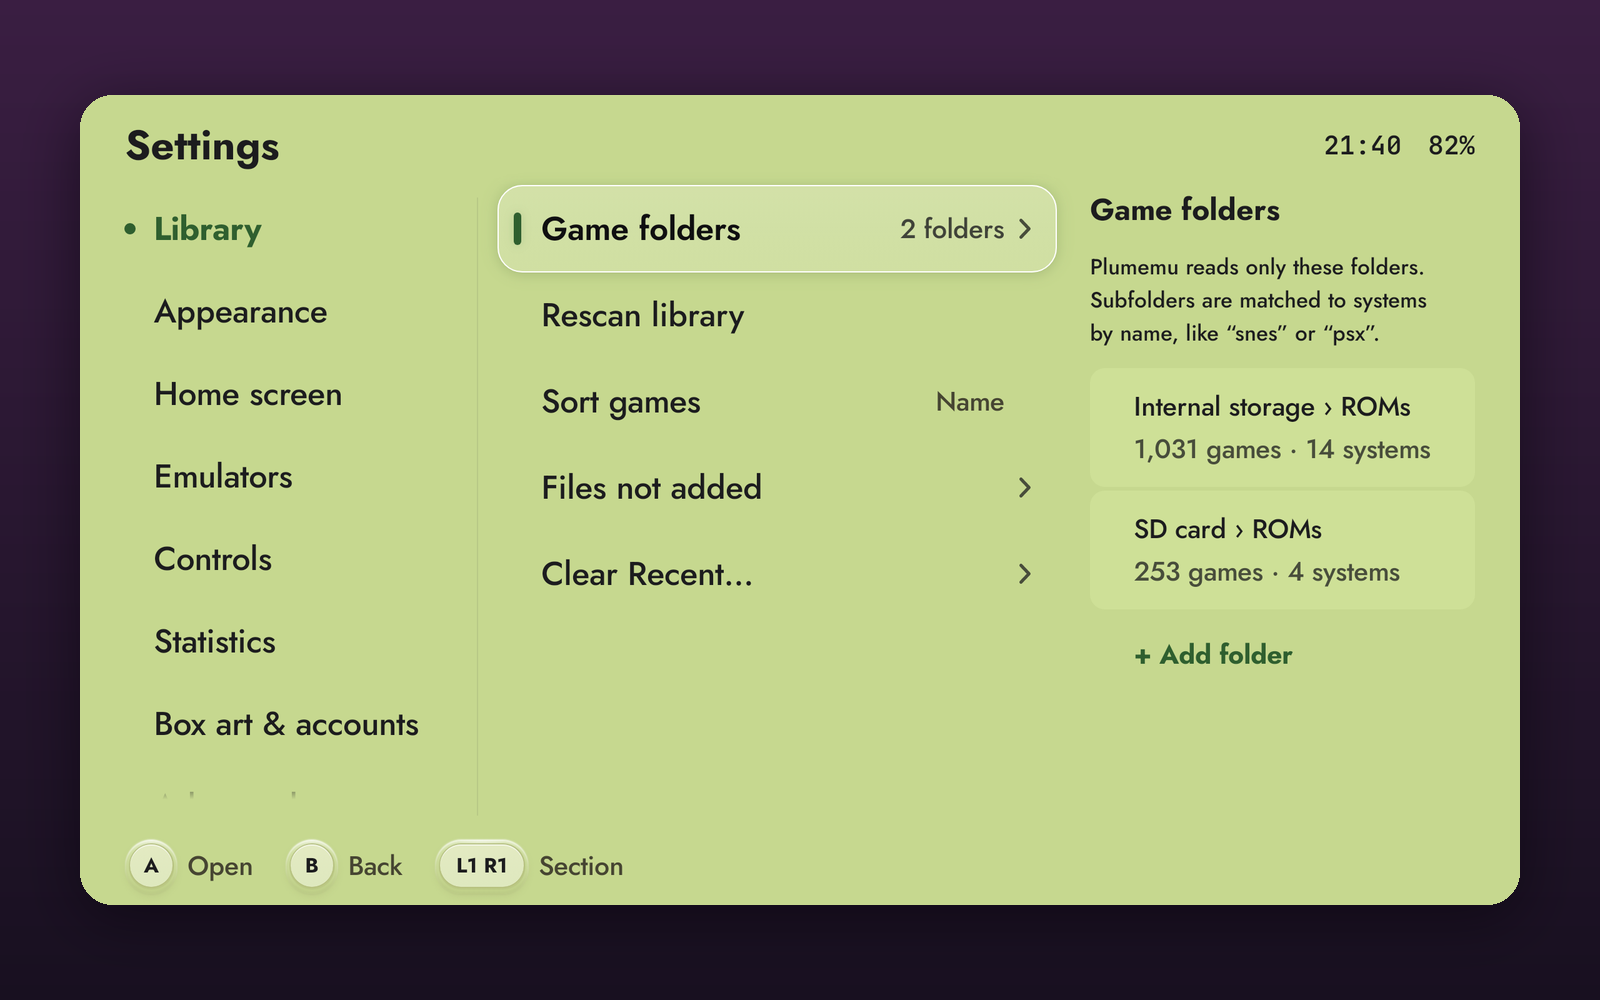
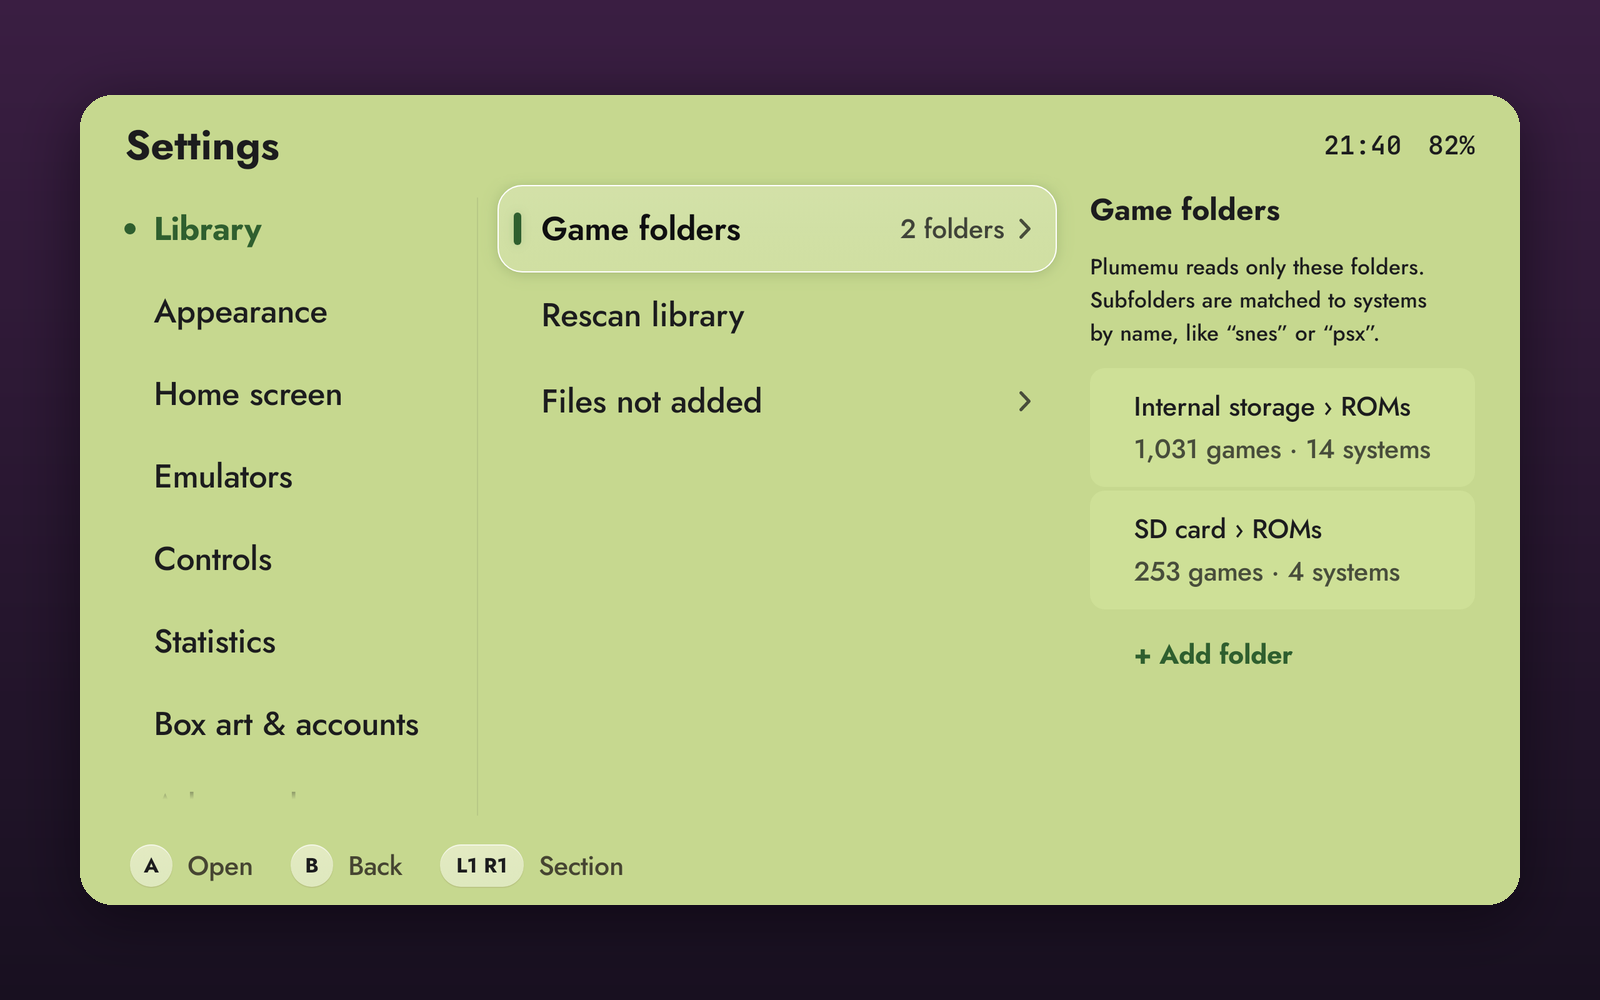
Docs and images for 0.1.6: Usage access in PRIVACY, removed settings gone from README and GUIDE, screenshots of 0.1.6

diff --git a/README.md b/README.md
@@ -15,7 +15,7 @@ handhelds.</p>
 </p>
 
 <p align="center">
-  <b>0.1.6</b> · Android 6.0 or later · tested on the AYN Thor, the Retroid Pocket 6, the Retroid Pocket Nova and the Retroid Pocket Classic ·
+  <b>0.1.6</b> · Android 6.0 or later · tested on the AYN Thor (earlier versions also on the Retroid Pocket 6, Nova and Classic) ·
   <a href="../../releases">Download</a> · <a href="https://plumemu.stevensdesk.com">Website</a>
 </p>
 
@@ -108,7 +108,7 @@ game file.
   of your library, with the reason, and Unidentified games suggests the closest official titles. Folders the last scan could not read are listed
   there too, with Scan again and a way to skip each one.
 - **Recent that you control.** Take one game out of Recent from its menu (Undo brings it back for four seconds), or clear it
-  (Settings › Library › Clear Recent…). Recent keeps the last 50 games. Your play time and statistics stay.
+  (Settings › Advanced › Reset… › Clear Recent…). Recent keeps the last 50 games. Your play time and statistics stay.
 - **Skip a sub-folder.** Settings › Library › Game folders can leave out a sub-folder (a folder of
   demos, say) so its games never show up. Nothing on disk is touched.
 
@@ -142,15 +142,13 @@ game file.
   and on a handheld with an OLED screen setup offers true black. Or make your own background, text and accent colors with
   sliders that show the whole screen in the new color as you drag.
 - **Lists or covers.** Show any system, Recent or Favorites as a list or as a grid of covers in
-  three sizes (L1 / R1, or the Size hint; Settings › Home screen › Grid size
-  while button hints are off). Covers sit in a glass frame with rounded corners; the focused cover or app lifts a little inside its
+  three sizes (L1 / R1, or the Size hint). Covers sit in a glass frame with rounded corners; the focused cover or app lifts a little inside its
   own space, with a thin light rim, so nothing overlaps. Apps can be a grid of larger icons too.
 - **One sliding view.** Systems, games and details move as one strip, laid out for 16:9 and 4:3
   screens. On 4:3 and narrow screens the game's details peek in beside the list. Beside the games,
-  a narrow strip shows game counts, a code per system or a letter rail you can tap or drag
-  (Settings › Home screen › Left strip).
+  a narrow strip shows a short code for each system, in your order, that you can tap.
 - **About each system.** Above a system's games, a short band with its badge, the years it was
-  made and a few lines about it. Settings › Home screen › System info turns it off.
+  made and a few lines about it.  It follows the screens your handheld has.
 - **Text you can read.** Text size starts at Large. Every screen uses Jost in one weight, and the clock,
   battery and years use a monospaced face so their figures line up.
   Lists, menus and panels run under the top and bottom bars and fade there.
@@ -169,7 +167,7 @@ game file.
 - **Back up and restore.** Save your settings, or everything (library, box art, play time), into
   one file, checked after writing, and put it back on this device or a new one.
 - **Updates from inside the app** (official builds). Once a day on Wi-Fi Plumemu looks for a new
-  version; the top bar then shows "Update" and the version, and START or Settings › About › Updates
+  version; the top bar then shows "Update" and the version, and START or Settings › About › Version
   installs it. After an update Plumemu opens itself again, or shows a notification to tap if Android keeps
   it from coming to the front, and a card tells you what is new, once.
 - **Anonymous usage statistics and crash reports, only if you want them** (official builds). They
@@ -198,7 +196,7 @@ game file.
     <td align="center">In three sizes, light or dark</td>
   </tr>
   <tr>
-    <td colspan="2"><img src="media/apps-grid.png" alt="Apps in Cold grey as a grid of larger icons with one-line names, Gallery lifted inside a thin light rim; the left strip counts each system"></td>
+    <td colspan="2"><img src="media/apps-grid.png" alt="Apps in Cold grey as a grid of larger icons with one-line names, Gallery lifted inside a thin light rim; the left strip shows a code for each system"></td>
   </tr>
   <tr>
     <td colspan="2" align="center">Apps as a grid of larger icons</td>
@@ -217,7 +215,7 @@ game file.
   </tr>
   <tr>
     <td align="center">4:3 screens, like the Retroid Pocket Nova</td>
-    <td align="center">Counts, system codes or a letter rail at the edge</td>
+    <td align="center">A code for each system at the edge</td>
   </tr>
   <tr>
     <td width="50%"><img src="media/colors.png" alt="Settings › Appearance › Colors in Ultramarine: a short help text and small previews of the first color sets, Ultramarine selected"></td>
@@ -228,7 +226,7 @@ game file.
     <td align="center">A, B, X and Y in their classic colors</td>
   </tr>
   <tr>
-    <td width="50%"><img src="media/settings.png" alt="Settings › Library in Pea green, a green screen: Game folders, Rescan library, Sort games, Files not added and Clear Recent…; the Game folders panel on the right lists Internal storage and SD card with their game counts"></td>
+    <td width="50%"><img src="media/settings.png" alt="Settings › Library in Pea green, a green screen: Game folders, Rescan library and Files not added; the Game folders panel on the right lists Internal storage and SD card with their game counts"></td>
     <td width="50%"><img src="media/update.png" alt="Settings › About in Daylight with the update panel: Plumemu 0.1.3 → 0.1.4, a short list of release notes and an Update button (an example screen)"></td>
   </tr>
   <tr>
@@ -292,9 +290,9 @@ optional: on the Thor it shows details, a clock and your battery, and nothing ne
 
 **Updating.** Install the new version the same way, over the old one; your library and settings
 stay. The official build also finds new versions itself: START Settings shows a dot, and
-Settings › About › Updates downloads it, checks that it really is Plumemu, and installs it. On
+Settings › About › Version downloads it, checks that it really is Plumemu, and installs it. On
 Android 8 and later, Android asks once to let Plumemu install apps. Nothing installs while you
-play. Settings › About › Updates has a switch that turns the daily check off.
+play. Settings › About › Version has a switch that turns the daily check off.
 
 ## Controls
 
@@ -337,12 +335,12 @@ official build can send, and to whom:
 |---|---|---|---|
 | Usage statistics and crash reports: device model, Android and Plumemu versions, a random install number, which screens and settings are used, play time by system. For a game Plumemu could not name, once: its system, size, checksum and any code read from the game. Never game titles, file names or search words. | The developer (`plumemu.stevensdesk.com`) | Only after you switch it on | Settings › About › Send usage statistics |
 | A problem report: what you wrote, an e-mail if you give one, the log unless you untick it | The developer | Only when you press Send | Do not press Send |
-| An update check: a request for one file, nothing about you | The developer (`plumemu-app.stevensdesk.com`) | Once a day on Wi-Fi, or when you press Check for updates | Settings › About › Updates |
+| An update check: a request for one file, nothing about you | The developer (`plumemu-app.stevensdesk.com`) | Once a day on Wi-Fi, or when you press Check for updates | Settings › About › Version |
 | Box art lookups: your ScreenScraper account, and each game's file name, size, checksum and title | [ScreenScraper](https://www.screenscraper.fr) | Only while you are signed in, on Wi-Fi | Settings › Box art & accounts › ScreenScraper: Sign out or Pause |
 | Box art ScreenScraper lacks: a Steam game's title, or a game's file name | Steam (Valve) and the libretro thumbnail server | Only while you are signed in to ScreenScraper, on Wi-Fi | The same |
 | Box art with no account: a game's name, in the picture's address | The libretro thumbnail server | Only if you choose the default source, on Wi-Fi | Settings › Box art & accounts › Box art: Plumemu's own covers |
 | Achievements: your RetroAchievements user name, your Web API key and the RetroAchievements number of a game, found from a hash of the game file that Plumemu computes on the handheld (no file leaves it). Badge pictures are plain downloads with no account data | [RetroAchievements](https://retroachievements.org) (`retroachievements.org`, badges from `media.retroachievements.org`) | Only while you are signed in: when a game's Info opens, after you play, and once a day on Wi-Fi | Settings › Box art & accounts › RetroAchievements: Sign out deletes your name, key and progress |
-| Platform data (the list of systems and emulators): a request for one file, nothing about you | The developer (`plumemu-app.stevensdesk.com`) | In the same daily update check | Settings › About › Updates |
+| Platform data (the list of systems and emulators): a request for one file, nothing about you | The developer (`plumemu-app.stevensdesk.com`) | In the same daily update check | Settings › About › Version |
 
 A build you make yourself from the source sends no statistics and checks no updates, and has no
 ScreenScraper or RetroAchievements account built in (see [Source](#source)). Your IP address reaches each server with

diff --git a/PRIVACY.md b/PRIVACY.md
@@ -46,7 +46,7 @@ to RetroAchievements.
 
 Once a day, on Wi-Fi or Ethernet that is not metered, when Plumemu comes to the front, it asks
 `plumemu-app.stevensdesk.com` whether there is a newer version. It also asks when you press
-Check for updates in Settings › About › Updates.
+Check for updates in Settings › About › Version.
 
 - **What is sent**: a plain HTTPS request for one file, `update/latest.json`. No identifier, no
   account, nothing about your library, your device or the version you have.
@@ -62,7 +62,7 @@ Check for updates in Settings › About › Updates.
   second yes), from the same server.
 - **What stays on the device**: when it last checked and what it found, in storage that is never
   backed up.
-- **Turn it off** with Settings › About › Updates. Check for updates then runs only
+- **Turn it off** with Settings › About › Version. Check for updates then runs only
   when you press it.
 
 ## Box art (only if you choose it)
@@ -116,14 +116,27 @@ contact RetroAchievements at all.
 
 ## Battery use
 
-On a handheld with two screens, while you play with the lower screen's clock and Show battery on,
+On a handheld with two screens, while you play with the lower screen's clock showing,
 Plumemu reads the battery level and current to say how long the charge lasts. For each play it
 keeps how long it measured, the charge at the start and the end, and the average draw, so it can
 tell a game's usual pace.
 
 - **Recorded on the device only, never sent** to Plumemu or anyone else.
 - It is read only while that clock shows and the screen is on.
-- **Turn it off** with Show battery off, or the lower screen set to black while you play.
+- **Turn it off** by setting the lower screen to Black while you play (Settings › Second screen).
+
+## Usage access (only if you allow it)
+
+After your first game of a minute or more, Plumemu offers once to count only the time a game is on
+screen. It needs Android's Usage access, which Plumemu never has unless you allow it. It is off by
+default, and it can be switched on or off in Settings › Statistics › Exact play time.
+
+- **What is read**: from Android, which app was in front during the play, to count only the time
+  your game or app was on screen. Nothing else about other apps is kept.
+- **Recorded on the device only, never sent** to Plumemu or anyone else. Only the play's length is
+  stored.
+- **Turn it off** with Exact play time off, or take the access away in Android's Usage access
+  screen.
 
 ## Backups
 
@@ -143,6 +156,7 @@ sends a backup anywhere; where the file goes is up to you.
   kept as games.
 - **When and how long you play**, to show play time under Settings › Statistics.
 - **The battery**, while you play on two screens, as above.
+- **Which app is in front**, only if you allow Usage access, as above.
 
 All of it stays on the device, in Plumemu's own storage, and is removed when Plumemu is
 uninstalled.

diff --git a/GUIDE.md b/GUIDE.md
@@ -156,9 +156,9 @@ none. Settings › Box art & accounts › RetroAchievements › Sign out removes
 ## Lists and keeping things tidy
 
 - **Recent, Favorites and Apps** sit at the top of the system column. Y adds or removes a favorite.
-- **Recent** keeps 10, 20 or 50 games (Settings › Library › Recent size; 20 to begin with). In a
+- **Recent** keeps the last 50 games. In a
   game's menu, "Remove from Recent" takes one out (Undo brings it back for four seconds);
-  Settings › Library › Clear Recent… empties it.
+  Settings › Advanced › Reset… › Clear Recent… empties it.
   Play time and statistics stay either way.
 - **Search**: X.
 - **Hide a game**: game menu › Hide; or Not a game for a file that is not one. Both come back in
@@ -184,7 +184,7 @@ field. Settings › Controls › Keyboard switches to Android's keyboard.
 Settings › Appearance: seventeen ready-made [color sets](COLORS.md) or your own colors, text size,
 Fade list edges and Language. Every screen uses Jost in one weight. The focused cover or app lifts a
 little inside its own space with a thin light rim; buttons and switches are flat, and a switch that
-is off is outlined. Settings › Home screen: grid size and the left edge strip.
+is off is outlined. Settings › Home screen: Use as home screen and Show Android apps. The hints, clock and battery always show.
 Settings › Controls: Confirm with B, sounds and vibration. List or grid is SELECT on the main
 screen.
 
@@ -193,9 +193,9 @@ screen.
 - Settings › Advanced › Back up saves your settings, or everything (library, box art, play time),
   to a file; Restore puts it back.
 - When a new version is out, the top bar shows "Update" and the version; START opens it. You can
-  also use Settings › About › Update. It installs the new version, keeping your library and
+  also use Settings › About › Version. It installs the new version, keeping your library and
   settings. Afterwards Plumemu opens itself again, or shows a notification to tap if Android keeps it
-  from coming to the front (Settings › About › Updates can turn notifications on), and a card shows
+  from coming to the front (Settings › About › Version can turn notifications on), and a card shows
   what is new, once. Only the official build has this; if you built Plumemu from the source, install new
   versions yourself.
 
